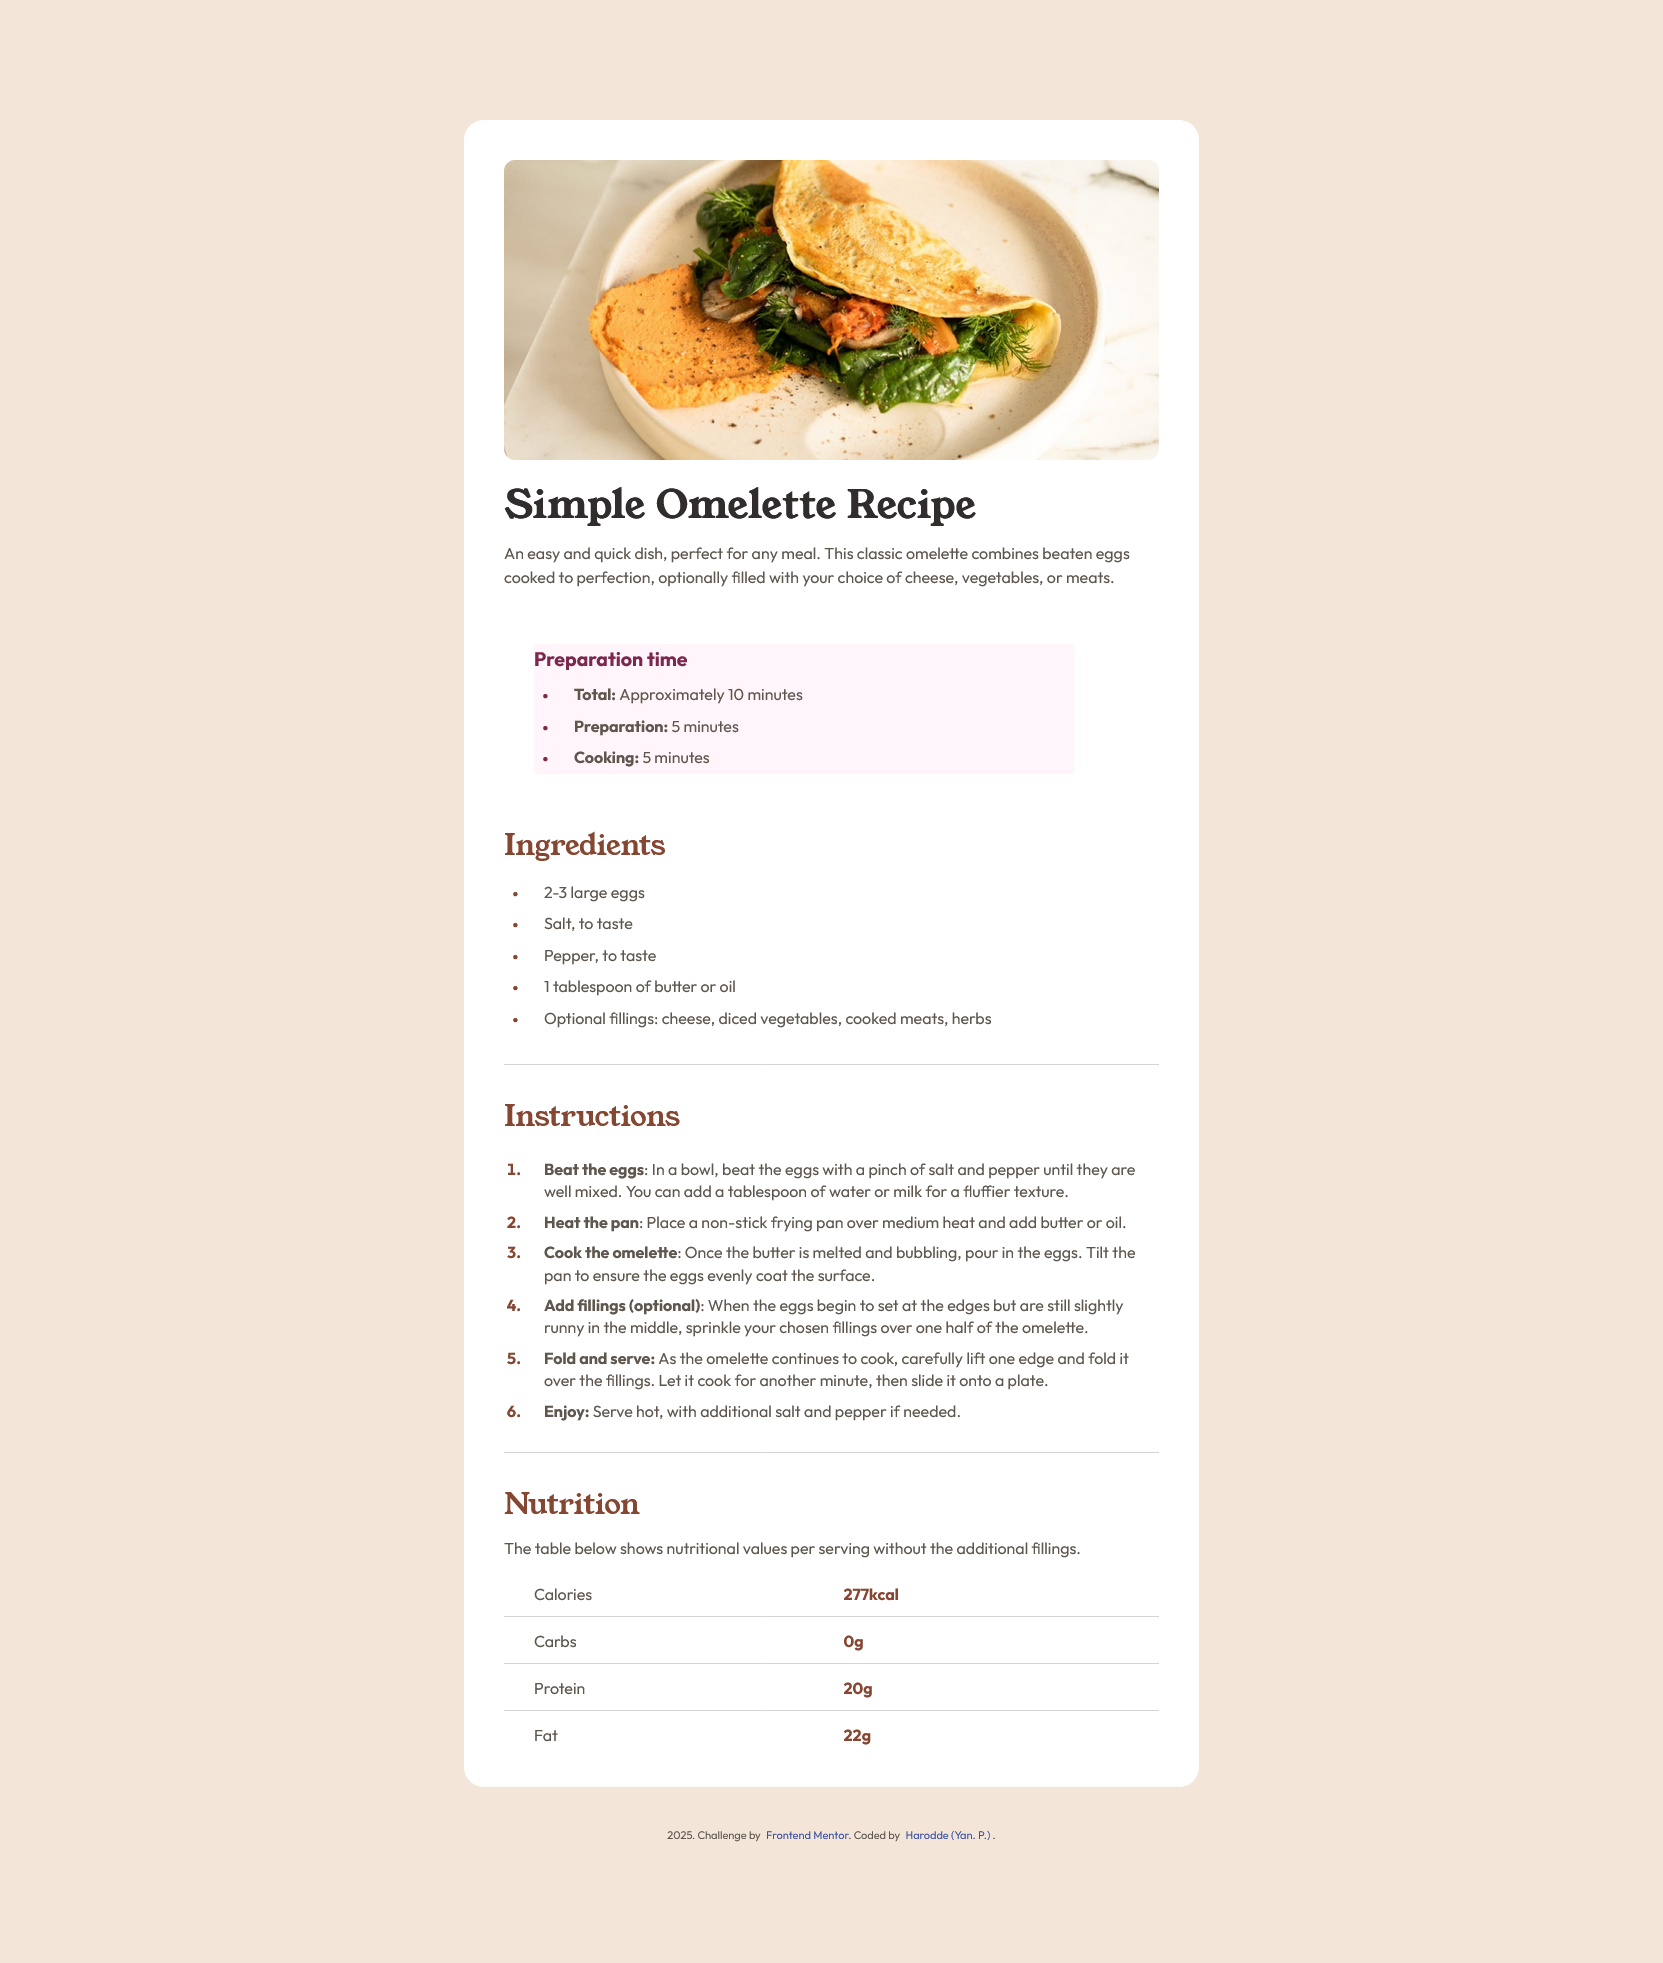
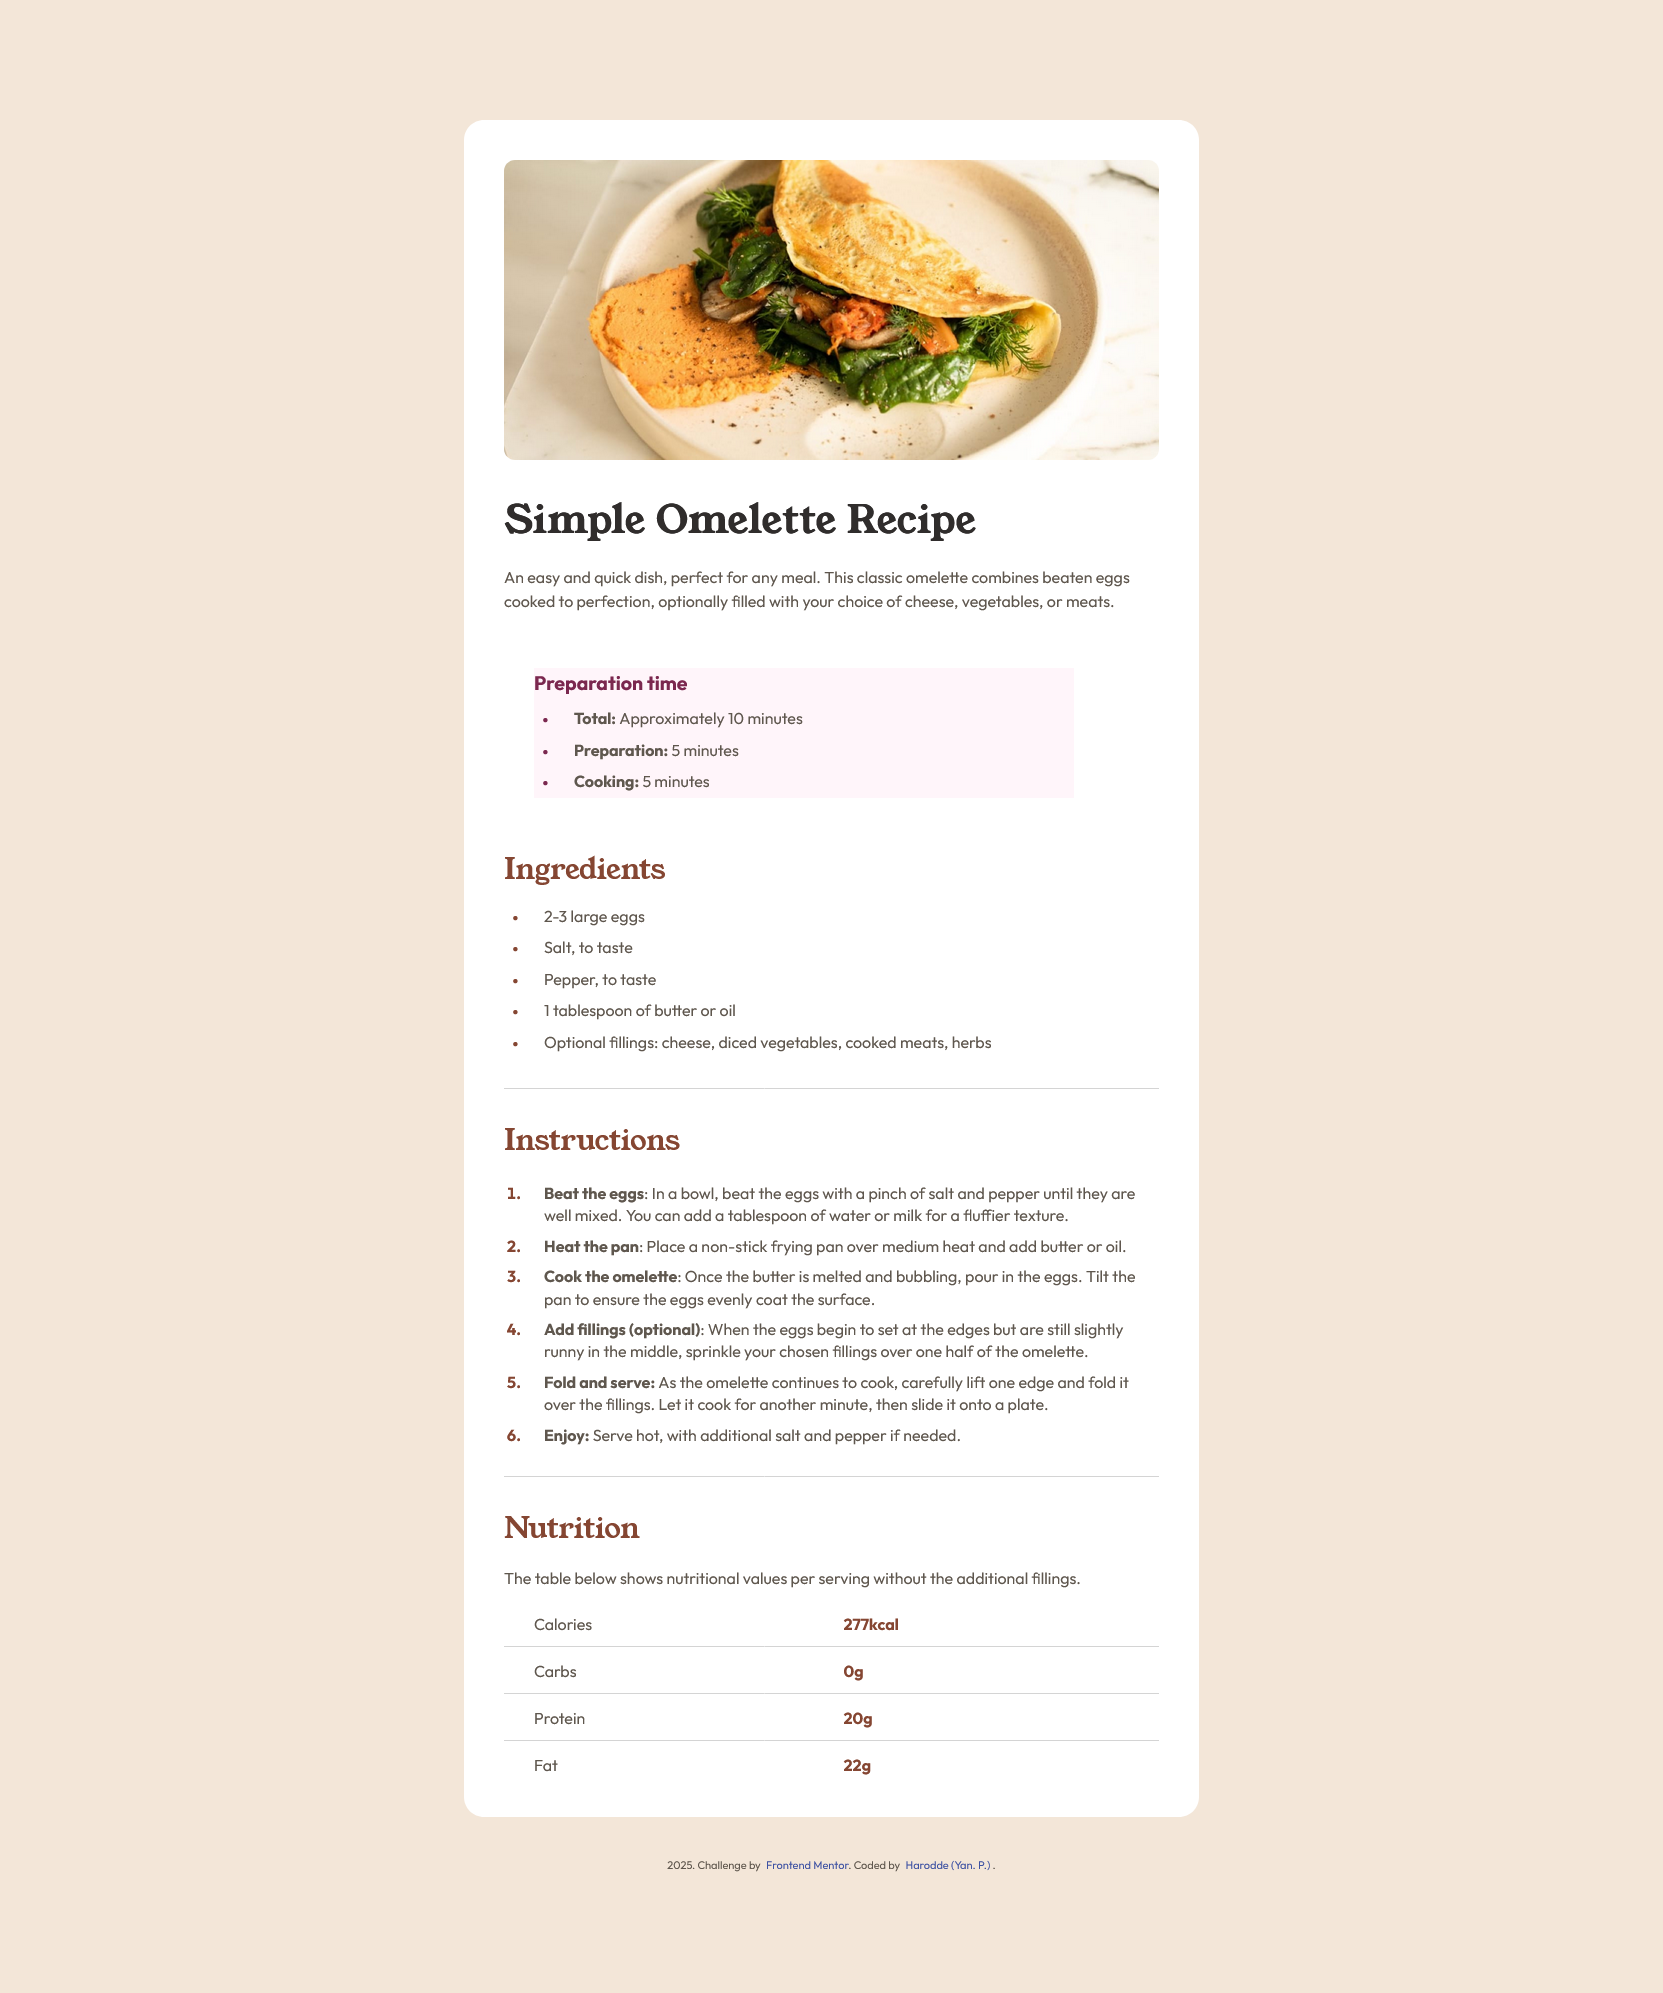
modify style.css padding

diff --git a/assets/css/style.css b/assets/css/style.css
@@ -220,7 +220,7 @@ li {
 
     .recipe_title {
         font-size: 2.406rem;
-        padding: 25px 0 16px;
+        padding: 40px 0 25px;
     }
 
     .recipe_preparation_times {
@@ -237,6 +237,10 @@ li {
     .recipe_nutrition p {
         width: fit-content;
         padding-bottom: 22px;
+    }
+
+    .recipe_nutrition h2 {
+        padding-bottom: 16px;
     }
 
     .nutrition_row {
